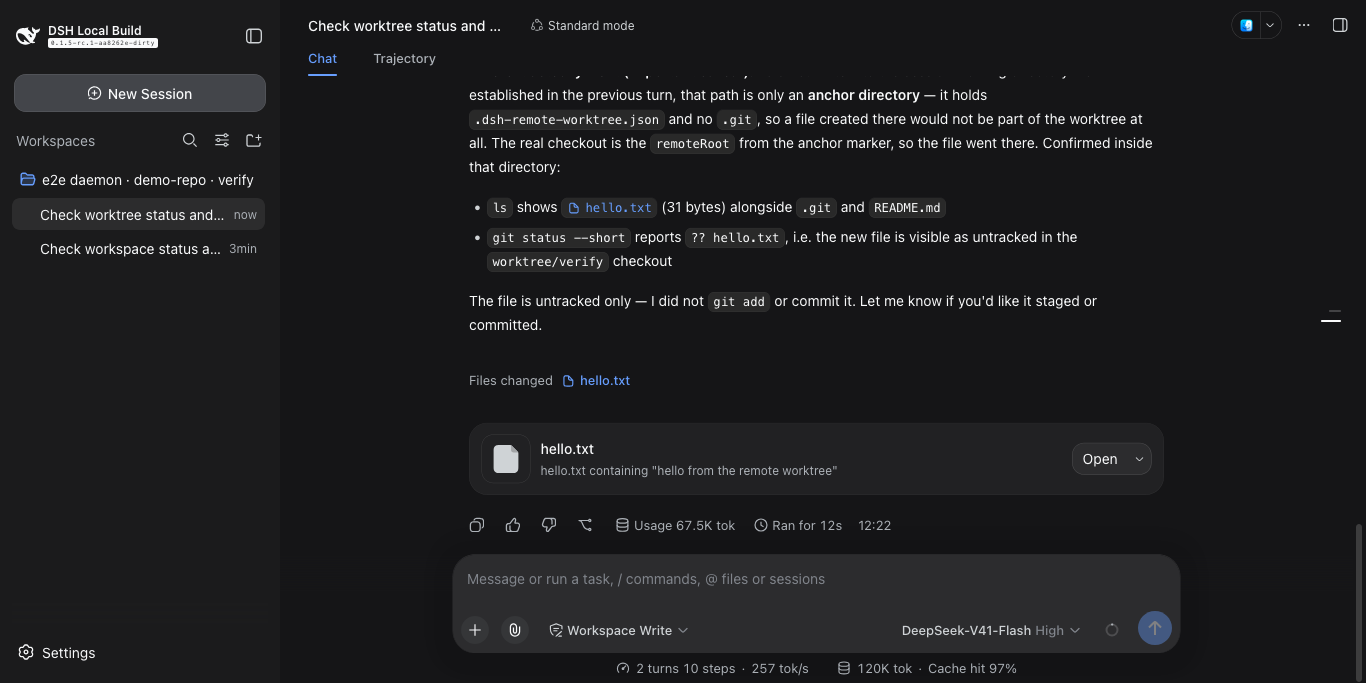
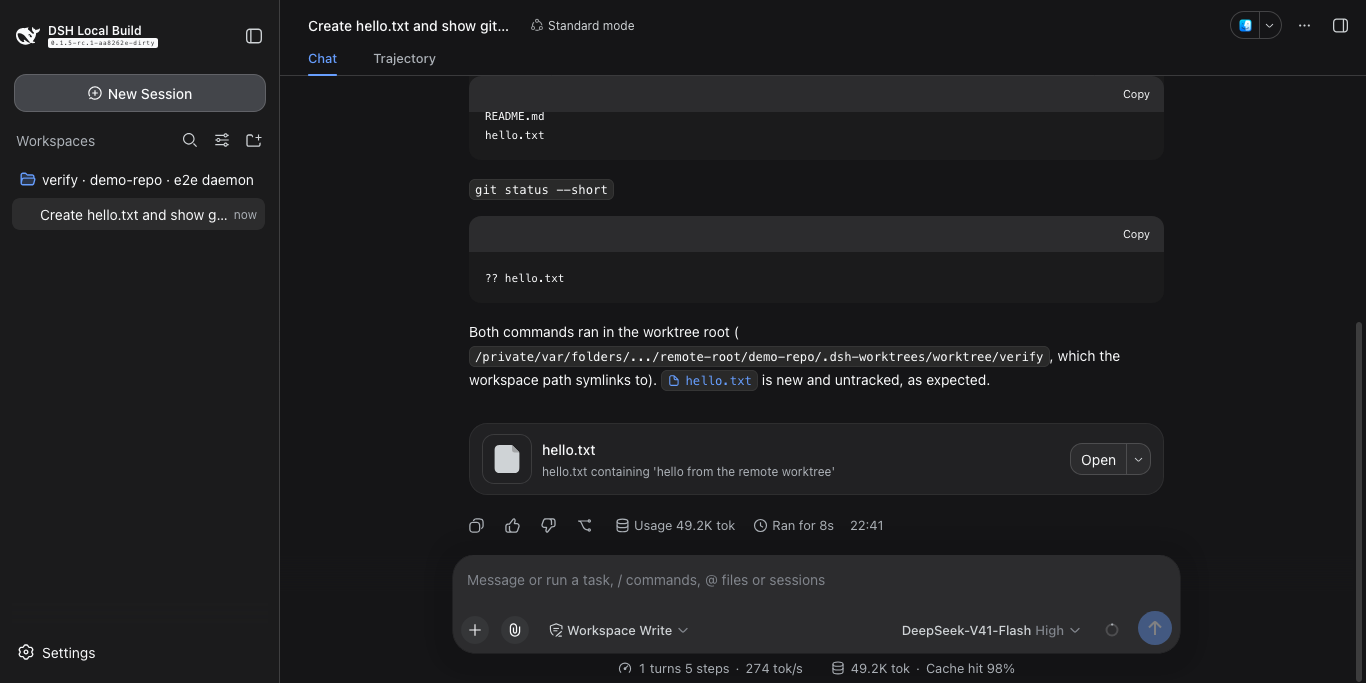
Redraw the session screenshot, and teach the driver to type
The published session screenshot was made before the title order changed and
before the anchor-path fix, so its sidebar carried the old title and its
transcript documented a mis-route. Both halves are new: the sidebar reads
`verify · demo-repo · e2e daemon`, and the transcript shows the tools running in
the remote worktree — `ls` listing the checkout, `git status --short` answering
`?? hello.txt` — with the model noting the remote path in its reply.

Producing it needed one thing the harness could not do: a rich-text composer
ignores synthetic input events, so `page.type` now delivers the keys through
BiDi's input actions instead. Everything else in the capture is the existing
driver: navigate, clear the shell's own dialogs, type, send, wait for the
finished turn's usage footer, and shoot.

diff --git a/tests/browser/firefox.ts b/tests/browser/firefox.ts
@@ -33,6 +33,15 @@ export interface FirefoxPage {
    */
   evaluate<T = unknown>(expression: string): Promise<T>
   /**
+   * Send text to whatever holds the focus, one key at a time.
+   *
+   * A rich-text editor is a controlled component: it ignores synthetic input
+   * events, so the only way to type into one is to let the browser deliver the
+   * keys.
+   * @param text - the text to type, one key press per code point.
+   */
+  type(text: string): Promise<void>
+  /**
    * Save a PNG of the current viewport.
    * @param path - absolute file to write.
    */
@@ -161,6 +170,17 @@ function page(
         resultOwnership: 'none',
       })
       return unwrap(reply.result) as T
+    },
+
+    async type(text) {
+      const actions = [...text].flatMap(character => ([
+        { type: 'keyDown', value: character },
+        { type: 'keyUp', value: character },
+      ]))
+      await connection.send('input.performActions', {
+        context,
+        actions: [{ type: 'key', id: 'keyboard', actions }],
+      })
     },
 
     async screenshot(path) {
